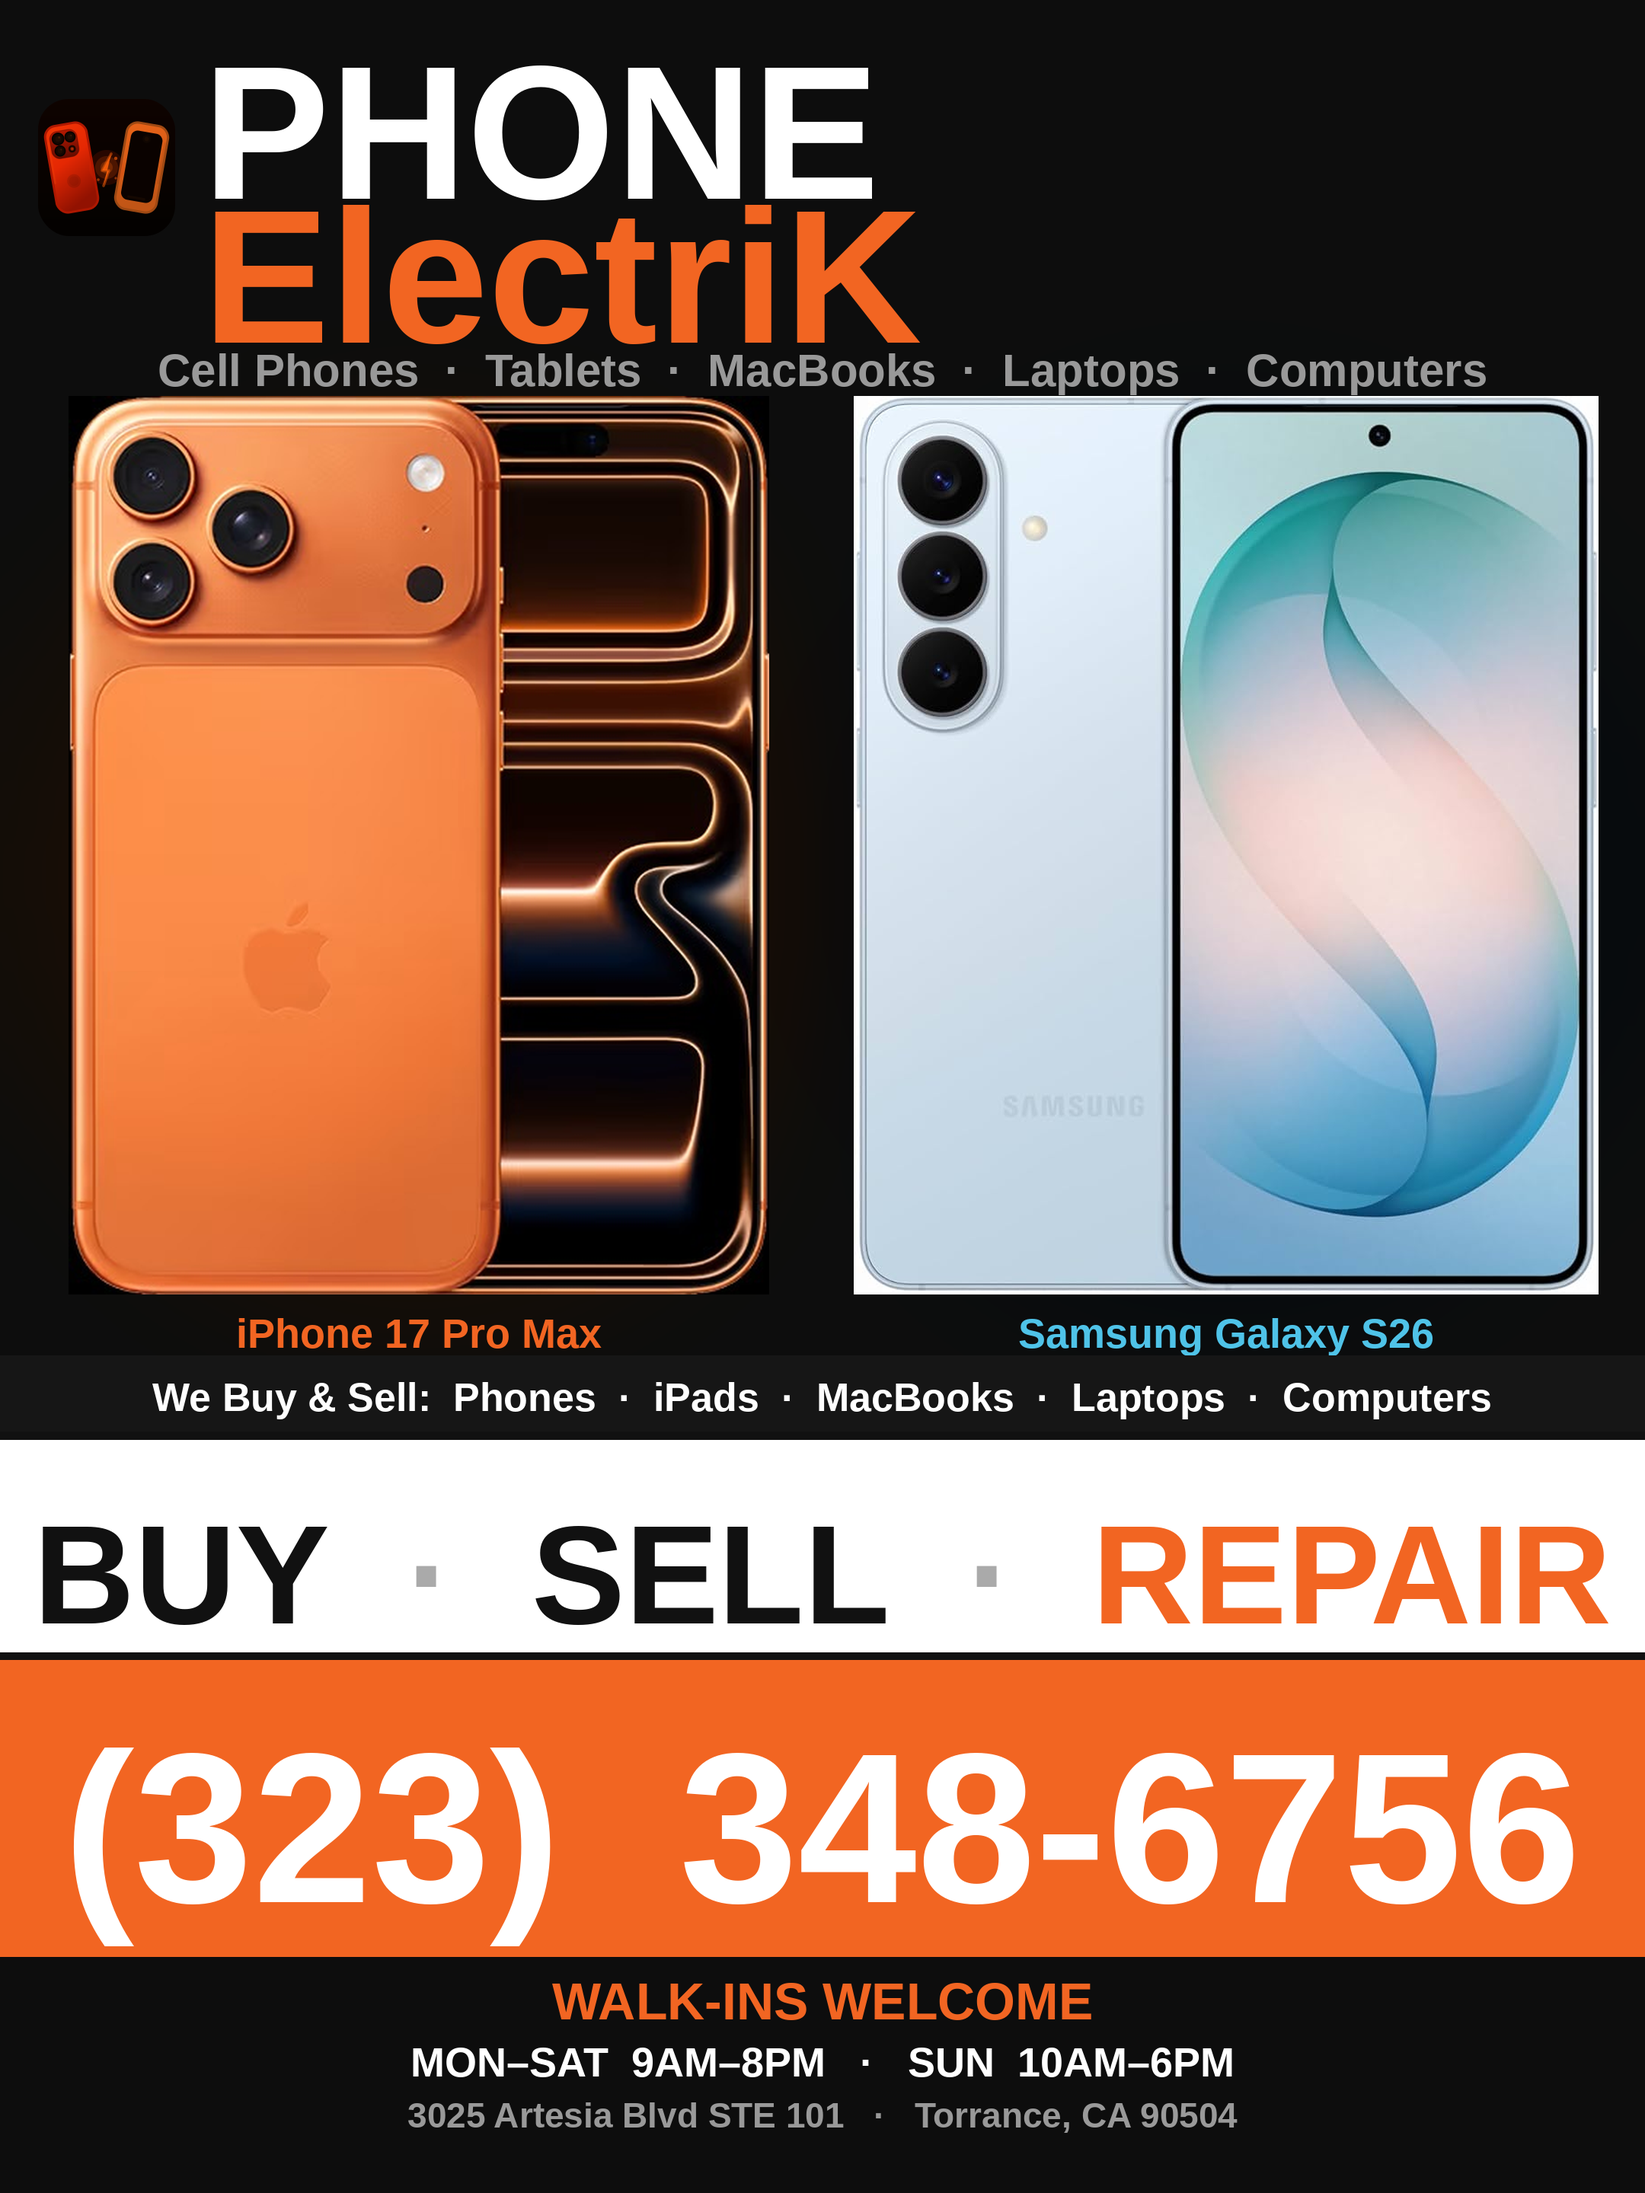
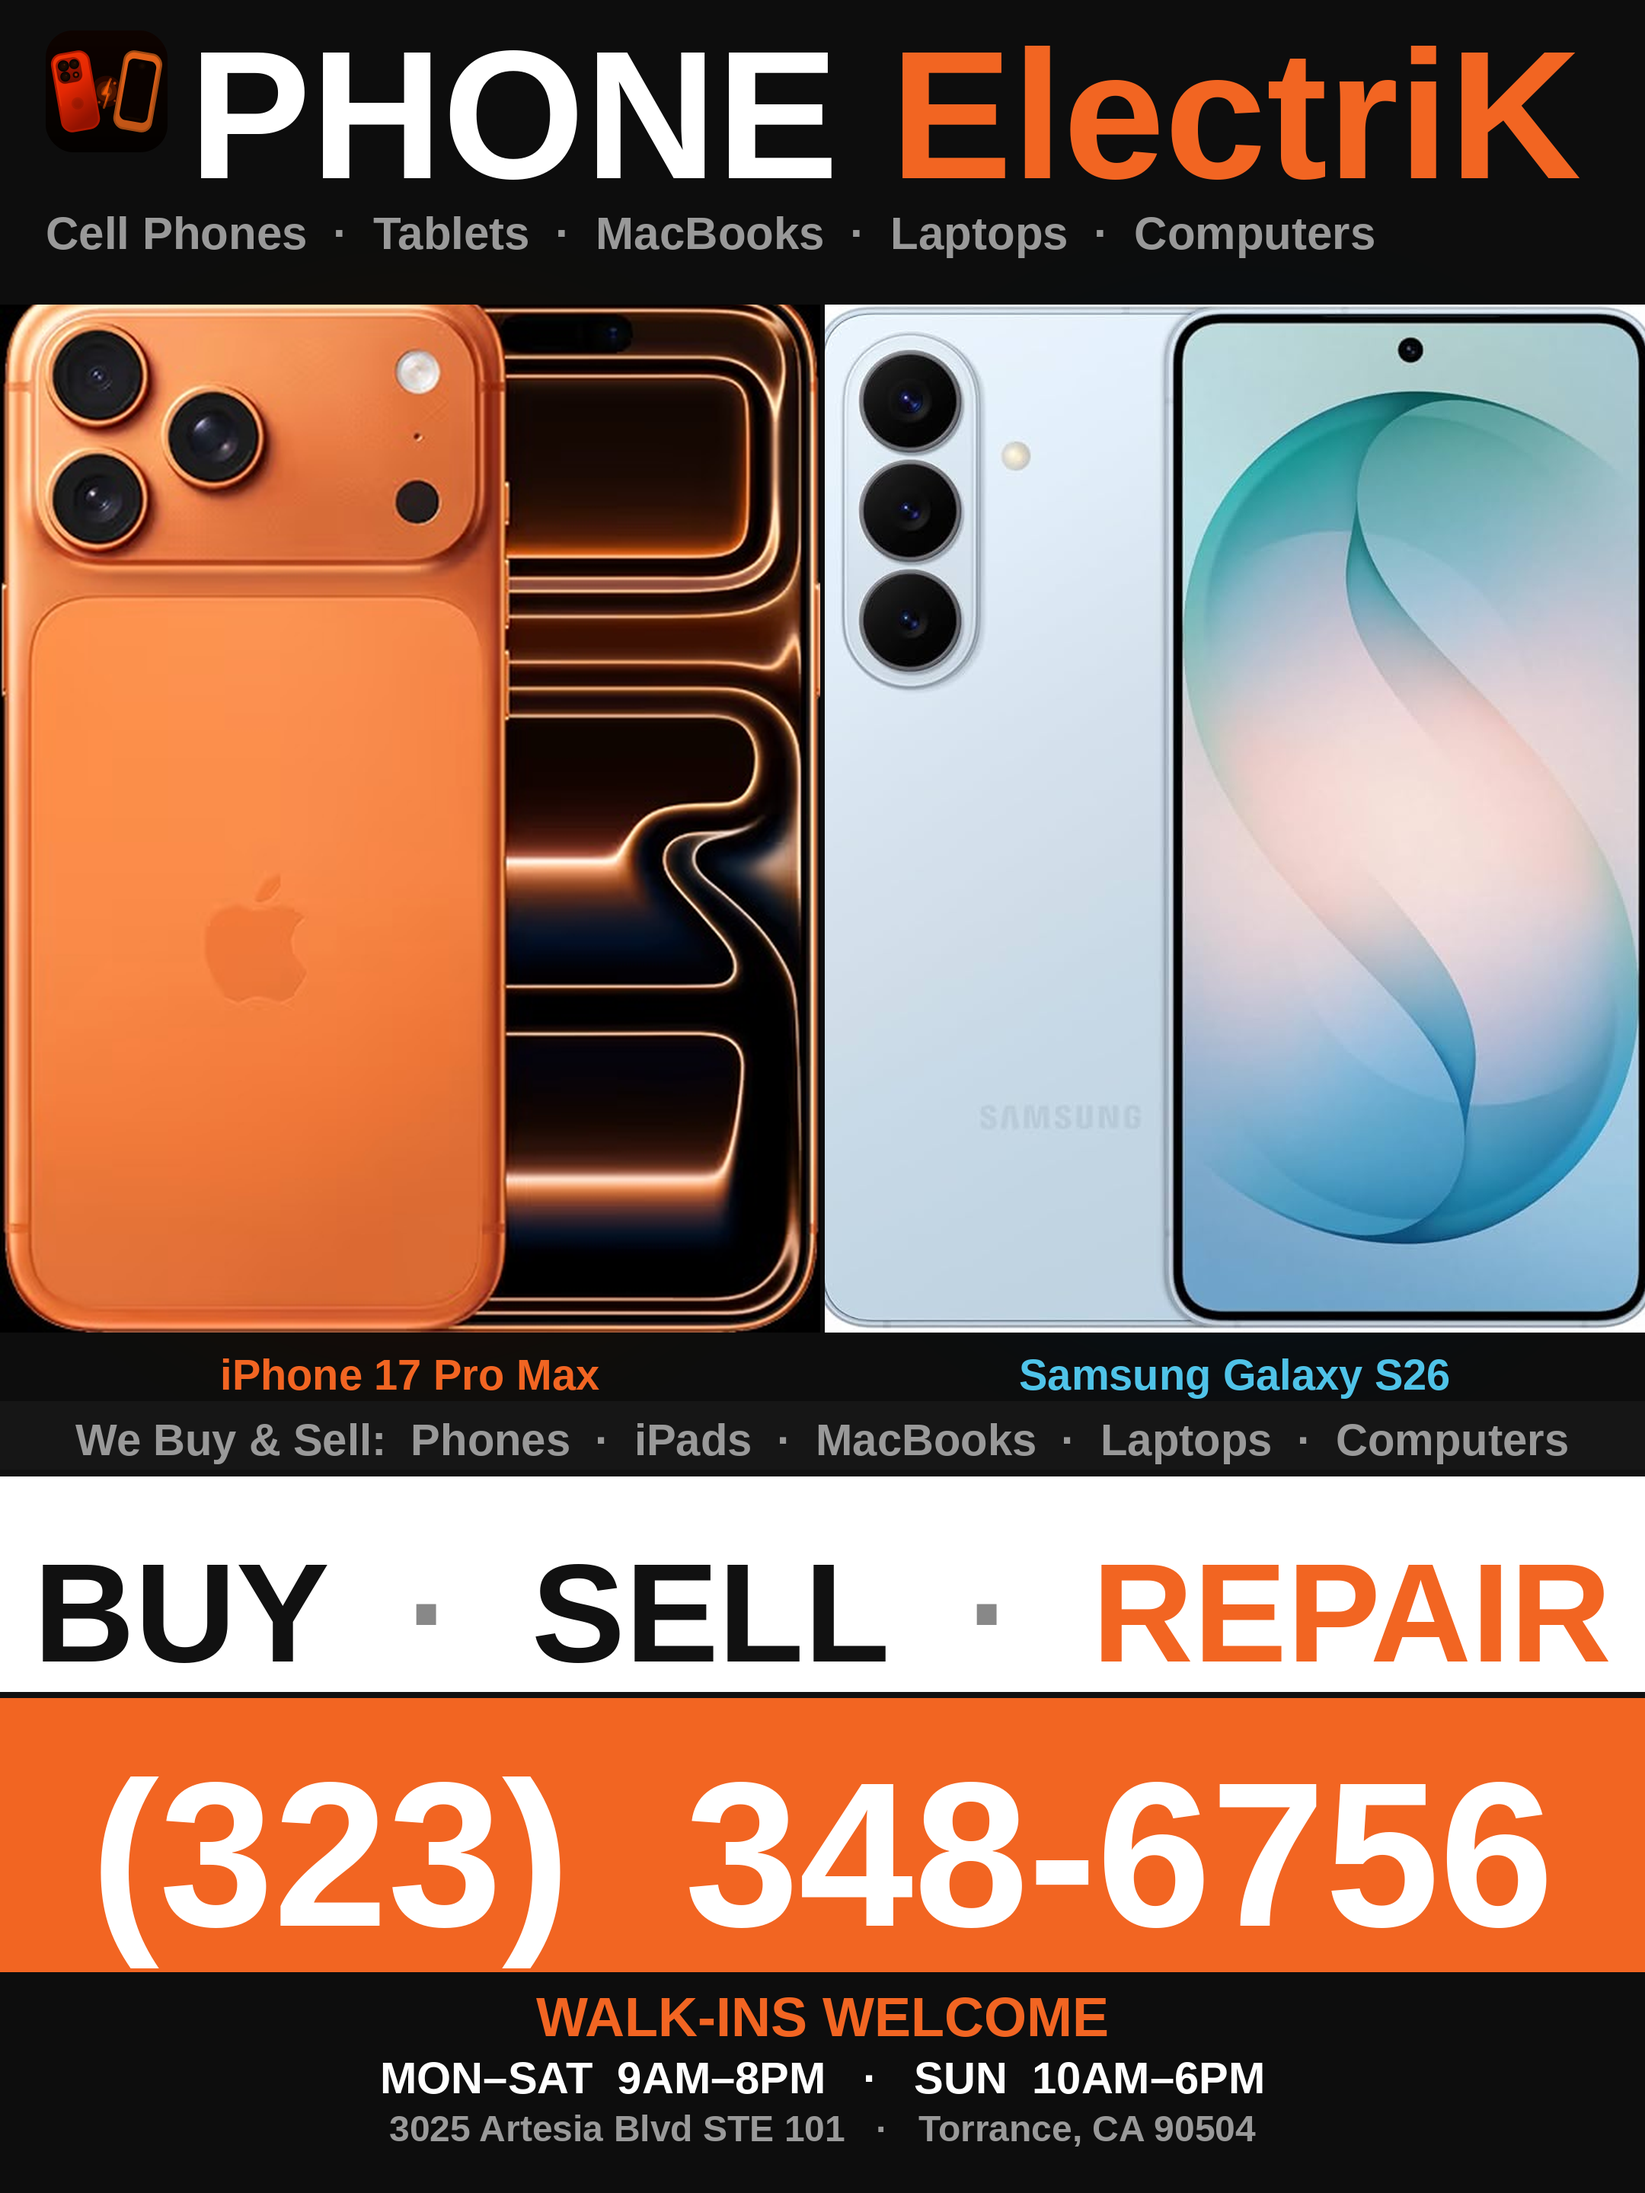
Put PHONE and ElectriK on same line; restore full poster layout
- Brand reads "PHONE ElectriK" side-by-side (white + orange) instead of stacked
- Restored phone labels, device strip, WALK-INS WELCOME footer, glow effect
- Cover-fill phone scaling (edge-to-edge, no black shoulders)

https://claude.ai/code/session_01PwEW43Wf9QC5PJzVBdfADC

diff --git a/make_poster.py b/make_poster.py
@@ -1,5 +1,5 @@
 """Run: python3 make_poster.py  →  generates poster.png"""
-from PIL import Image, ImageDraw, ImageFont
+from PIL import Image, ImageDraw, ImageFont, ImageFilter
 import cairosvg, io, os
 
 W, H = 2160, 2880
@@ -8,96 +8,171 @@ BOLD = '/usr/share/fonts/truetype/liberation/LiberationSans-Bold.ttf'
 BG     = '#0D0D0D'
 ORANGE = '#F26522'
 WHITE  = '#FFFFFF'
-GREY   = '#AAAAAA'
+GREY   = '#999999'
 BLACK  = '#111111'
+BLUE   = '#4fc3e8'
 
-PINK_H   = 1950
-WHITE_H  = 330
+# Section heights — must sum to H=2880
+HDR_H    = 400
+PHONE_H  = 1350
+LABEL_H  = 90
+DEVICE_H = 90
+WHITE_H  = 300
 ORANGE_H = 360
-FOOTER_H = H - PINK_H - WHITE_H - ORANGE_H
+FOOTER_H = 290  # 400+1350+90+90+300+360+290 = 2880
 
+HDR_Y    = 0
+PHONE_Y  = HDR_H
+LABEL_Y  = PHONE_Y  + PHONE_H
+DEVICE_Y = LABEL_Y  + LABEL_H
+WHITE_Y  = DEVICE_Y + DEVICE_H
+ORANGE_Y = WHITE_Y  + WHITE_H
+FOOTER_Y = ORANGE_Y + ORANGE_H
+
+assert FOOTER_Y + FOOTER_H == H
+
+PAD     = 60
+LOGO_SZ = 160
+GAP     = 6
+SLOT_W  = (W - GAP) // 2  # 1077
+
+# ── Glow layer (phone background atmosphere) ──────────────────────────────────
 canvas = Image.new('RGB', (W, H), BG)
-draw   = ImageDraw.Draw(canvas)
+glow   = Image.new('RGB', (W, H), BG)
+gd     = ImageDraw.Draw(glow)
+gd.ellipse([0,           PHONE_Y + 60, SLOT_W,       PHONE_Y + PHONE_H], fill='#1f0b00')
+gd.ellipse([SLOT_W + GAP, PHONE_Y + 60, W,            PHONE_Y + PHONE_H], fill='#001320')
+glow   = glow.filter(ImageFilter.GaussianBlur(100))
+canvas = Image.blend(canvas, glow, alpha=0.78)
 
-PAD = 80
-GAP = 60
+draw = ImageDraw.Draw(canvas)
 
-def fit_font(text, max_w, start_size):
+def fit_font(text, max_w, start_size, step=4):
     size = start_size
-    while size > 20:
+    while size > 24:
         f = ImageFont.truetype(BOLD, size)
-        bb = draw.textbbox((0,0), text, font=f)
-        if (bb[2]-bb[0]) <= max_w:
+        bb = draw.textbbox((0, 0), text, font=f)
+        if (bb[2] - bb[0]) <= max_w:
             return f, bb
-        size -= 4
+        size -= step
     f = ImageFont.truetype(BOLD, size)
-    return f, draw.textbbox((0,0), text, font=f)
+    return f, draw.textbbox((0, 0), text, font=f)
 
-# Logo
+# ── Logo ──────────────────────────────────────────────────────────────────────
 svg_bytes = cairosvg.svg2png(url=os.path.join(os.path.dirname(__file__), 'logo.svg'),
-                              output_width=160, output_height=160)
+                              output_width=LOGO_SZ, output_height=LOGO_SZ)
 logo_img = Image.open(io.BytesIO(svg_bytes)).convert('RGBA')
-r,g,b,a  = logo_img.split()
-tinted   = Image.merge('RGBA',(r.point(lambda x:int(x*.95)),g.point(lambda x:int(x*.40)),b.point(lambda x:int(x*.10)),a))
-canvas.paste(tinted,(PAD,55),mask=a)
+r, g, b, a = logo_img.split()
+tinted = Image.merge('RGBA', (
+    r.point(lambda x: int(x * .95)),
+    g.point(lambda x: int(x * .40)),
+    b.point(lambda x: int(x * .10)), a))
+LOGO_Y = 40
+canvas.paste(tinted, (PAD, LOGO_Y), mask=a)
 
-# Brand text
-BRAND_SIZE = 195
-fnt_brand = ImageFont.truetype(BOLD, BRAND_SIZE)
-fnt_tag   = ImageFont.truetype(BOLD, 64)
-logo_r = PAD + 160 + 30
-draw.text((logo_r, 48), 'PHONE',    font=fnt_brand, fill=WHITE)
-draw.text((logo_r, 48+BRAND_SIZE+8), 'ElectriK', font=fnt_brand, fill=ORANGE)
-TAG_Y = 48 + BRAND_SIZE*2 + 30
-draw.text((PAD, TAG_Y), 'CELL PHONE  +  TABLET REPAIR AND ACCESSORIES', font=fnt_tag, fill=GREY)
+# ── Brand: PHONE (white) ElectriK (orange) — same line ───────────────────────
+logo_r     = PAD + LOGO_SZ + 28
+TEXT_MAX_W = W - logo_r - PAD
+fnt_brand, _ = fit_font('PHONE ElectriK', TEXT_MAX_W, 240)
+BRAND_Y = max(LOGO_Y + (LOGO_SZ - fnt_brand.size) // 2, 16)
 
-# Phone images
-PHONE_TOP = TAG_Y + 90
-PHONE_H   = PINK_H - PHONE_TOP
-PHONE_W   = (W - PAD*2 - GAP) // 2
+bb_p  = draw.textbbox((0, 0), 'PHONE', font=fnt_brand)
+bb_sp = draw.textbbox((0, 0), ' ',     font=fnt_brand)
+draw.text((logo_r, BRAND_Y), 'PHONE', font=fnt_brand, fill=WHITE)
+ek_x = logo_r + (bb_p[2] - bb_p[0]) + (bb_sp[2] - bb_sp[0])
+draw.text((ek_x, BRAND_Y), 'ElectriK', font=fnt_brand, fill=ORANGE)
 
-def paste_phone(path, slot_x):
+# ── Tagline ───────────────────────────────────────────────────────────────────
+TAG_Y   = BRAND_Y + fnt_brand.size + 16
+tag_txt = 'Cell Phones  ·  Tablets  ·  MacBooks  ·  Laptops  ·  Computers'
+fnt_tag, _ = fit_font(tag_txt, W - PAD * 2, 60)
+draw.text((PAD, TAG_Y), tag_txt, font=fnt_tag, fill=GREY)
+
+# ── Phone images (cover-fill, edge-to-edge) ───────────────────────────────────
+def paste_phone_cover(path, slot_x):
     img = Image.open(path)
     iw, ih = img.size
-    scale = min(PHONE_W/iw, PHONE_H/ih)
-    nw, nh = int(iw*scale), int(ih*scale)
+    scale = max(SLOT_W / iw, PHONE_H / ih)
+    nw, nh = int(iw * scale), int(ih * scale)
     img = img.resize((nw, nh), Image.LANCZOS)
-    x = slot_x + (PHONE_W-nw)//2
-    y = PHONE_TOP + (PHONE_H-nh)
-    canvas.paste(img,(x,y))
+    if nw > SLOT_W:
+        cx = (nw - SLOT_W) // 2
+        img = img.crop((cx, 0, cx + SLOT_W, nh))
+        nw = SLOT_W
+    if nh > PHONE_H:
+        img = img.crop((0, nh - PHONE_H, nw, nh))
+        nh = PHONE_H
+    canvas.paste(img, (slot_x, PHONE_Y + (PHONE_H - nh)))
 
 base = os.path.dirname(__file__)
-paste_phone(os.path.join(base,'IMG_0096.jpeg'), PAD)
-paste_phone(os.path.join(base,'IMG_0097.jpeg'), PAD+PHONE_W+GAP)
+paste_phone_cover(os.path.join(base, 'IMG_0096.jpeg'), 0)
+paste_phone_cover(os.path.join(base, 'IMG_0097.jpeg'), SLOT_W + GAP)
 
-# White band
-WY = PINK_H
-draw.rectangle([0,WY,W,WY+WHITE_H], fill=WHITE)
-draw.rectangle([0,WY,W,WY+10], fill=BLACK)
-draw.rectangle([0,WY+WHITE_H-10,W,WY+WHITE_H], fill=BLACK)
-bsr_txt = 'BUY  ·  SELL  ·  REPAIR'
-fnt_bsr, bb = fit_font(bsr_txt, W-80, 220)
-draw.text(((W-(bb[2]-bb[0]))//2, WY+(WHITE_H-(bb[3]-bb[1]))//2), bsr_txt, font=fnt_bsr, fill=BLACK)
+# ── Phone labels ──────────────────────────────────────────────────────────────
+fnt_lbl = ImageFont.truetype(BOLD, 56)
+lbl1, lbl2 = 'iPhone 17 Pro Max', 'Samsung Galaxy S26'
+bb1 = draw.textbbox((0, 0), lbl1, font=fnt_lbl)
+bb2 = draw.textbbox((0, 0), lbl2, font=fnt_lbl)
+LBL_Y = LABEL_Y + (LABEL_H - (bb1[3] - bb1[1])) // 2
+draw.text((SLOT_W // 2 - (bb1[2] - bb1[0]) // 2, LBL_Y), lbl1, font=fnt_lbl, fill=ORANGE)
+draw.text((SLOT_W + GAP + SLOT_W // 2 - (bb2[2] - bb2[0]) // 2, LBL_Y), lbl2, font=fnt_lbl, fill=BLUE)
 
-# Orange band
-OY = WY+WHITE_H
-draw.rectangle([0,OY,W,OY+ORANGE_H], fill=ORANGE)
-num_txt = '(323)  348-6756'
-fnt_num, bb = fit_font(num_txt, W-80, 240)
-draw.text(((W-(bb[2]-bb[0]))//2, OY+(ORANGE_H-(bb[3]-bb[1]))//2), num_txt, font=fnt_num, fill=WHITE)
+# ── Device strip ──────────────────────────────────────────────────────────────
+draw.rectangle([0, DEVICE_Y, W, DEVICE_Y + DEVICE_H], fill='#161616')
+dev_txt = 'We Buy & Sell:  Phones  ·  iPads  ·  MacBooks  ·  Laptops  ·  Computers'
+fnt_dev, bb_dev = fit_font(dev_txt, W - 100, 58)
+dev_y = DEVICE_Y + (DEVICE_H - (bb_dev[3] - bb_dev[1])) // 2
+draw.text(((W - (bb_dev[2] - bb_dev[0])) // 2, dev_y), dev_txt, font=fnt_dev, fill=GREY)
 
-# Footer
-FY = OY+ORANGE_H
-draw.rectangle([0,FY,W,H], fill='#0D0D0D')
-fnt_hrs = ImageFont.truetype(BOLD, 64)
-fnt_adr = ImageFont.truetype(BOLD, 52)
-hrs = 'MON–SAT  9AM–8PM   ·   SUN  10AM–6PM   ·   Walk-Ins Welcome'
-adr = '3025 Artesia Blvd STE 101   ·   Torrance, CA 90504'
-bb = draw.textbbox((0,0), hrs, font=fnt_hrs)
-draw.text(((W-(bb[2]-bb[0]))//2, FY+28), hrs, font=fnt_hrs, fill=WHITE)
-bb = draw.textbbox((0,0), adr, font=fnt_adr)
-draw.text(((W-(bb[2]-bb[0]))//2, FY+112), adr, font=fnt_adr, fill=GREY)
+# ── White band: BUY · SELL · REPAIR ──────────────────────────────────────────
+draw.rectangle([0, WHITE_Y, W, WHITE_Y + WHITE_H], fill=WHITE)
+draw.rectangle([0, WHITE_Y, W, WHITE_Y + 8], fill=BLACK)
+draw.rectangle([0, WHITE_Y + WHITE_H - 8, W, WHITE_Y + WHITE_H], fill=BLACK)
 
+bsr_parts = [('BUY', BLACK), ('  ·  ', '#888'), ('SELL', BLACK), ('  ·  ', '#888'), ('REPAIR', ORANGE)]
+bsr_sz = 200
+while bsr_sz > 60:
+    fb = ImageFont.truetype(BOLD, bsr_sz)
+    tw = sum((draw.textbbox((0,0),t,font=fb)[2]-draw.textbbox((0,0),t,font=fb)[0]) for t,_ in bsr_parts)
+    if tw <= W - 80:
+        break
+    bsr_sz -= 4
+bsr_h_bb = draw.textbbox((0, 0), 'BUY', font=fb)
+bsr_h_val = bsr_h_bb[3] - bsr_h_bb[1]
+tw = sum((draw.textbbox((0,0),t,font=fb)[2]-draw.textbbox((0,0),t,font=fb)[0]) for t,_ in bsr_parts)
+x = (W - tw) // 2
+y = WHITE_Y + (WHITE_H - bsr_h_val) // 2
+for txt, clr in bsr_parts:
+    bb = draw.textbbox((0, 0), txt, font=fb)
+    draw.text((x, y), txt, font=fb, fill=clr)
+    x += bb[2] - bb[0]
+
+# ── Orange band: phone number ─────────────────────────────────────────────────
+draw.rectangle([0, ORANGE_Y, W, ORANGE_Y + ORANGE_H], fill=ORANGE)
+fnt_num, bb_num = fit_font('(323)  348-6756', W - 80, 270)
+draw.text(
+    ((W - (bb_num[2] - bb_num[0])) // 2,
+     ORANGE_Y + (ORANGE_H - (bb_num[3] - bb_num[1])) // 2),
+    '(323)  348-6756', font=fnt_num, fill=WHITE)
+
+# ── Footer ────────────────────────────────────────────────────────────────────
+draw.rectangle([0, FOOTER_Y, W, H], fill=BG)
+fnt_wi  = ImageFont.truetype(BOLD, 72)
+fnt_hrs = ImageFont.truetype(BOLD, 58)
+fnt_adr = ImageFont.truetype(BOLD, 48)
+
+wi_txt  = 'WALK-INS WELCOME'
+hrs_txt = 'MON–SAT  9AM–8PM   ·   SUN  10AM–6PM'
+adr_txt = '3025 Artesia Blvd STE 101   ·   Torrance, CA 90504'
+
+bb = draw.textbbox((0, 0), wi_txt, font=fnt_wi)
+draw.text(((W - (bb[2] - bb[0])) // 2, FOOTER_Y + 18), wi_txt, font=fnt_wi, fill=ORANGE)
+bb = draw.textbbox((0, 0), hrs_txt, font=fnt_hrs)
+draw.text(((W - (bb[2] - bb[0])) // 2, FOOTER_Y + 106), hrs_txt, font=fnt_hrs, fill=WHITE)
+bb = draw.textbbox((0, 0), adr_txt, font=fnt_adr)
+draw.text(((W - (bb[2] - bb[0])) // 2, FOOTER_Y + 178), adr_txt, font=fnt_adr, fill=GREY)
+
+# ── Save ──────────────────────────────────────────────────────────────────────
 out = os.path.join(os.path.dirname(__file__), 'poster.png')
 canvas.save(out)
 print('Saved:', out)
